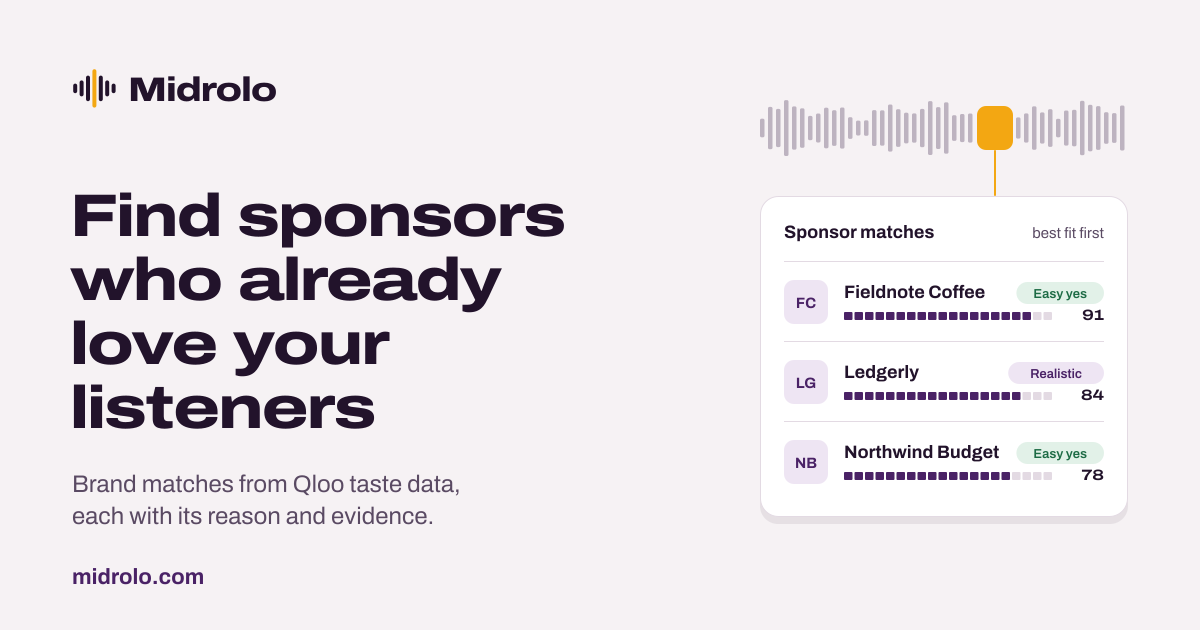
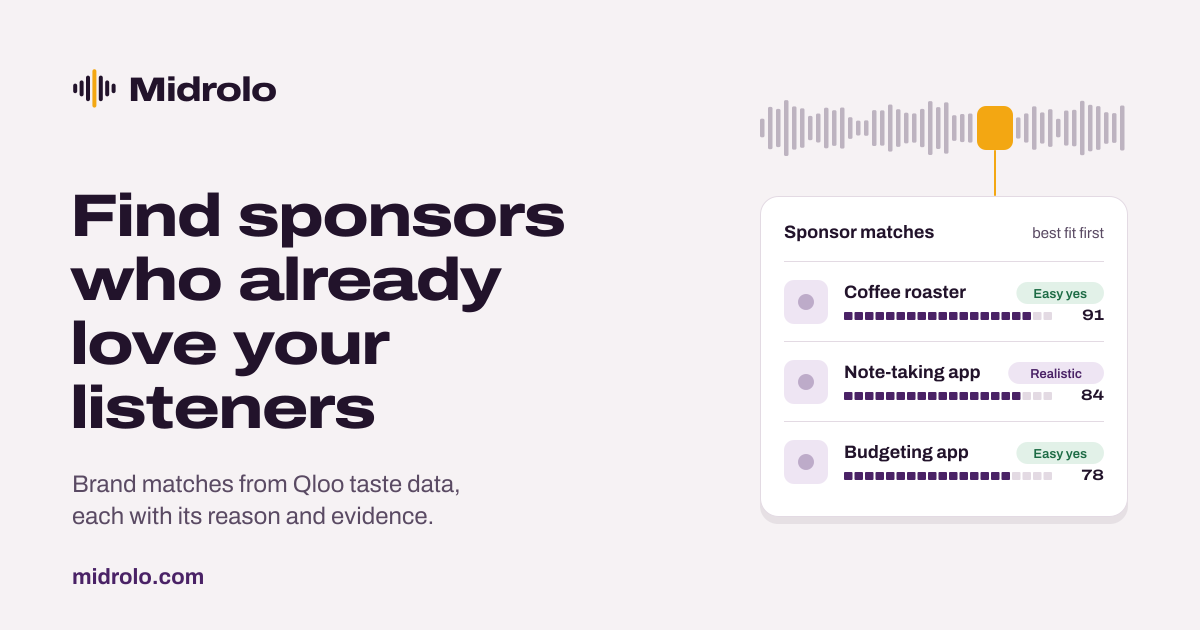
fix: robots.txt from a route, and no invented brands in illustrations (R88, R89)
- R88: robots.txt is pages#robots, so its Sitemap line is the request's own
  host (https://midrolo.dijmo.com/sitemap.xml on the fallback domain), never
  a hard-coded one. public/robots.txt is gone so the route answers.
- R89: the share image (og.svg, og.png re-rendered) and the landing hero's
  no-sample illustration name kinds of brands (Coffee roaster, Note-taking
  app, Budgeting app) on a blank logo tile, with kinds of evidence instead of
  an invented affinity.

diff --git a/spec/requests/pages_spec.rb b/spec/requests/pages_spec.rb
@@ -70,7 +70,9 @@ RSpec.describe "Public pages" do
     it "sends See a sample report to /samples until a sample is done, then to the first done sample" do
       get "/"
       expect(page.at_xpath("//main//a[normalize-space()='See a sample report']")["href"]).to eq("/samples")
-      expect(page.at_css("#hero").text).to include("An illustration of a match list")
+      hero = page.at_css("#hero").text
+      expect(hero).to include("An illustration of a match list", "Coffee roaster", "Note-taking app", "Budgeting app")
+      expect(hero).not_to match(/Fieldnote|Ledgerly|Northwind|Affinity \d/) # no invented brands or numbers (R89)
 
       create_sample("sample-two", title: "Index Fund Mornings")
       create_sample("sample-one")
@@ -182,14 +184,30 @@ RSpec.describe "Public pages" do
     end
   end
 
-  describe "robots.txt" do
-    it "lets crawlers into the public pages and keeps them out of private ones" do
-      robots = Rails.root.join("public/robots.txt").read
+  describe "GET /robots.txt (R88)" do
+    it "lets crawlers into the public pages, keeps them out of private ones and points to this host's sitemap" do
+      get "/robots.txt"
 
-      expect(robots).to include("User-agent: *", "Allow: /")
+      expect(response).to have_http_status(:ok)
+      expect(response.media_type).to eq("text/plain")
+      robots = response.body
+      expect(robots).to start_with("User-agent: *\nAllow: /\n")
       %w[/admin /account /shows /pipeline].each { |path| expect(robots).to match(/^Disallow: #{path}$/) }
       expect(robots).not_to match(%r{^Disallow: /k\b})
-      expect(robots).to match(%r{^Sitemap: https://midrolo\.com/sitemap\.xml$})
+      expect(robots).to match(%r{^Sitemap: http://www\.example\.com/sitemap\.xml$})
+    end
+
+    it "names the sitemap on whichever host served it, never a hard-coded domain" do
+      host! "midrolo.dijmo.com"
+      https!
+      get "/robots.txt"
+
+      expect(response.body).to match(%r{^Sitemap: https://midrolo\.dijmo\.com/sitemap\.xml$})
+      expect(response.body).not_to include("midrolo.com/")
+    end
+
+    it "isn't shadowed by a static file" do
+      expect(Rails.root.join("public/robots.txt")).not_to exist
     end
   end
 

diff --git a/config/routes.rb b/config/routes.rb
@@ -14,13 +14,14 @@ Rails.application.routes.draw do
   end
 
   # Public pages (Task 19, R78): the landing page for everyone, signed in or not, pricing, about and the legal pages,
-  # the public sample reports and the sitemap. robots.txt is a static file in public/.
+  # the public sample reports, the sitemap and robots.txt (R88: a route, so its sitemap URL is the request's host).
   root "pages#home"
   get "pricing", to: "pages#pricing", as: :pricing
   get "about", to: "pages#about", as: :about
   get "privacy", to: "pages#privacy", as: :privacy
   get "terms", to: "pages#terms", as: :terms
   get "sitemap.xml", to: "pages#sitemap", as: :sitemap, format: false, defaults: { format: "xml" }
+  get "robots.txt", to: "pages#robots", as: :robots, format: false, defaults: { format: "text" }
   resources :samples, only: %i[index show], param: :slug, format: false
 
   resource :account, only: %i[show destroy] do

diff --git a/app/controllers/pages_controller.rb b/app/controllers/pages_controller.rb
@@ -1,5 +1,5 @@
 # The public pages (Task 19, R78): the landing page (for everyone; signed-in visitors get "Go to my shows" in the
-# header), pricing, about, privacy, terms and the sitemap. Nothing here needs a session.
+# header), pricing, about, privacy, terms, the sitemap and robots.txt. Nothing here needs a session.
 class PagesController < ApplicationController
   layout "marketing"
 
@@ -13,6 +13,8 @@ class PagesController < ApplicationController
   def about; end
   def privacy; end
   def terms; end
+
+  def robots; end
 
   def sitemap
     @samples = Samples.reports
